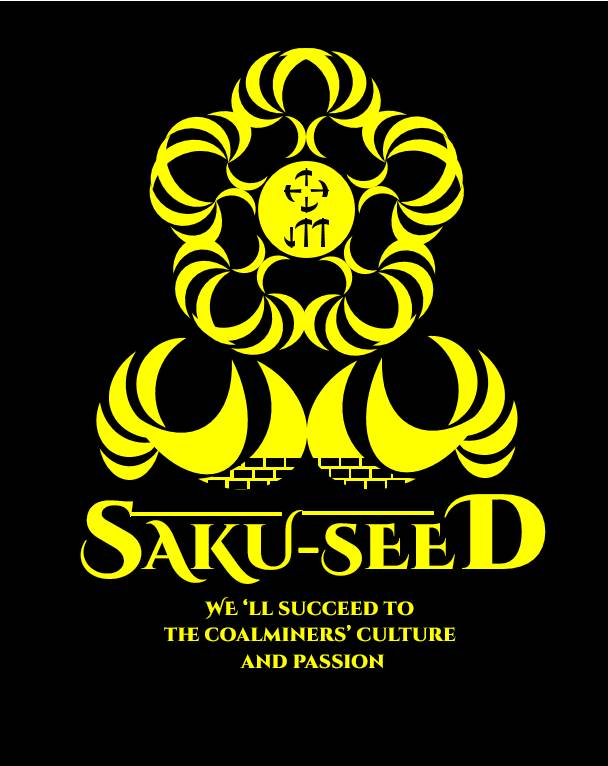
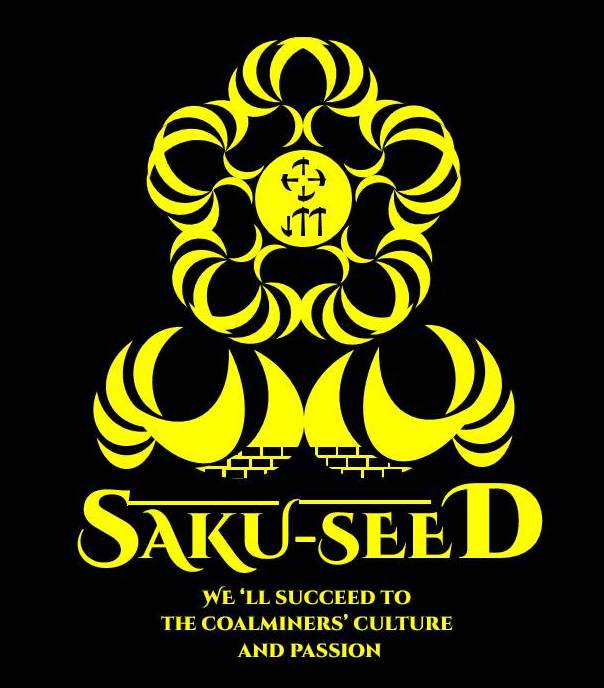
add main page

Changed region(s): [[0.1192, 0.0305, 0.9238, 0.9767]]

diff --git a/index.html b/index.html
@@ -31,7 +31,7 @@
         <header class="strheader">
             <div class="headerinner">
                 <h1 class="header01">
-                    <img src="c002.png">
+                    <img src="c002.png" width="550" height="110">
                 </h1>
                 <div>
                     <nav class="navi01">
@@ -47,17 +47,42 @@
         </header>
 
         <div class="photo">
-            <img src="a008.jpg" width="1200" height="800" alt="">
-            <img src="b007.jpg" width="1200" height="800" alt="">
-            <img src="a009.jpg" width="1200" height="800" alt="">
-            <img src="b002.jpg" width="1200" height="800" alt="">
-            <img src="a003.jpg" width="1200" height="800" alt="">
-            <img src="b008.jpg" width="1200" height="800" alt="">
-            <img src="a006.jpg" width="1200" height="800" alt="">
+            <img src="a008.jpg" width="1000" height="600" alt="">
+            <img src="b007.jpg" width="1000" height="600" alt="">
+            <img src="a009.jpg" width="1000" height="600" alt="">
+            <img src="b003.jpg" width="1000" height="600" alt="">
+            <img src="a003.jpg" width="1000" height="600" alt="">
+            <img src="b008.jpg" width="1000" height="600" alt="">
+            <img src="a006.jpg" width="1000" height="600" alt="">
         </div>
         
-        
-    </body>
+        <div class="team_URL">
+            <div>
+                <a href=""><img src="c003.png" width="300" height="75"></a>
+            </div>
+            <div>
+                <a href=""><img src="c004.png" width="300" height="75"></a>
+            </div> 
+        </div>
 
+        <div class="logo">
+            <img src="c001.jpg" width="300" height="340">
+        </div>
+
+        <div class="explain">]
+            <img src="b002.jpg">
+            <p>月咲SEEDとは...<br><br>
+            2018年4月に炭坑節発祥の地、<br>
+            田川で生まれたダンスパフォーマンス集団。<br>
+            炭坑節の文化を次世代へと継承するため、<br>
+            福岡を中心に活動中。<br><br>
+            メンバー15名　平均年齢約30才<br><br>
+            新たな時代「令和」において<br>
+            現代の若者に負けない勢いと力強さで<br>
+            元気と伝統を伝え広めていく<br><br><br>
+            応援よろしくお願いします！<br><br>
+            出演依頼　新メンバー　募集中！！</p>
+        </div>
+    </body>
 
 </html>

diff --git a/style.css b/style.css
@@ -1,6 +1,6 @@
 .photo {
-    width: 1200px;
-    height: 800px;
+    width: 1000px;
+    height: 600px;
     margin: 0 auto;
     text-align: left;
     overflow: hidden;
@@ -16,7 +16,7 @@
 .center{
     text-align: center;
     margin: 0;
-    background-color: black;
+    background-color: #020202;
 }
 
 .strheader {
@@ -83,3 +83,41 @@ ul.foo li:first-child {
   a:active {color: yellow;}
 
   a {text-decoration: none;}
+
+  .team_URL{
+    padding: 10px 0px;
+    display: flex;
+    justify-content: space-around;
+    background-color: #1a1a1a;
+  }
+
+  .team_URL img:hover{
+    opacity: 0.6;
+  }
+
+  .logo {
+      margin: 150px;
+  }
+
+  .explain {
+      position: relative;
+      
+  }
+
+  .explain p{
+    position: absolute;
+    color: #FAFFC9;
+    font-family: serif;
+    font-size: 30px;
+    top: 50%;
+    left: 50%;
+    -ms-transform: translate(-50%,-50%);
+    -webkit-transform: translate(-50%,-50%);
+    transform: translate(-50%,-50%);
+    margin:0;
+    padding:0;
+  }
+
+  .explain img{
+      opacity: 0.5;
+  }
